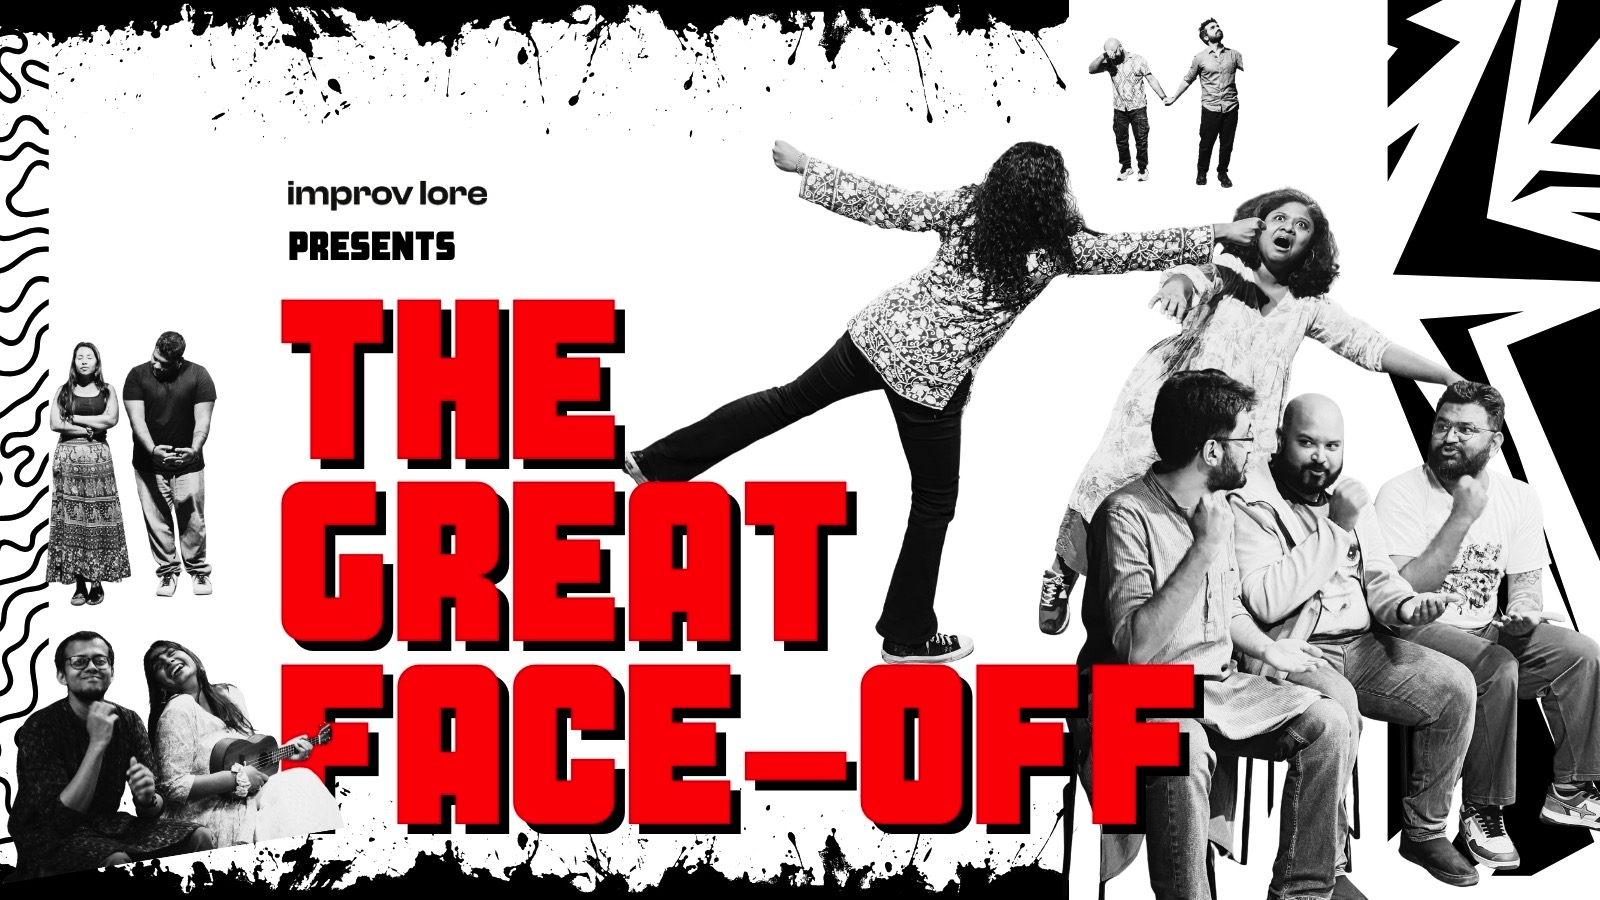
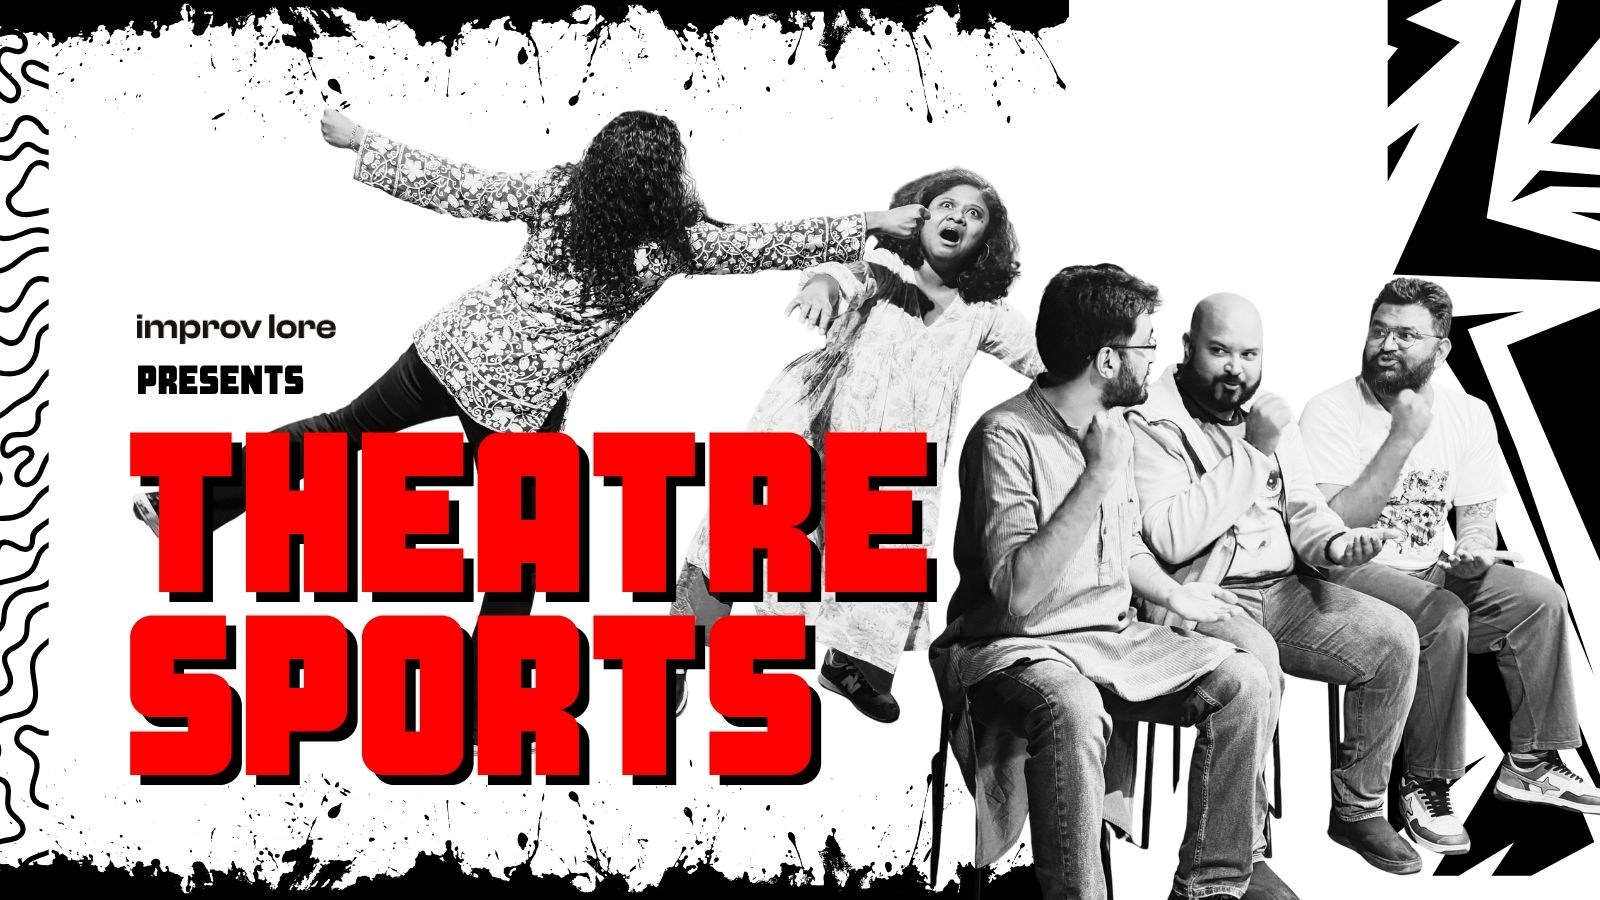
copy fix and afterdark addition

diff --git a/src/assets/css/marathon.css b/src/assets/css/marathon.css
@@ -511,8 +511,13 @@
 }
 
 .pill-latenight {
-  background: #6b21a8;
-  color: #fff;
+  background: #18072b;
+  color: #fdf4ff;
+  border: 1.5px solid #d946ef;
+  box-shadow: 0 0 10px rgba(217, 70, 239, 0.55), 2px 2px 0 var(--ink);
+  text-shadow: 0 0 6px rgba(217, 70, 239, 0.8);
+  font-weight: 800;
+  letter-spacing: 0.05em;
 }
 
 .marathon-format-title {
@@ -658,8 +663,28 @@
 }
 
 .marathon-schedule-card--latenight {
-  background: linear-gradient(135deg, #fbf7ff 0%, var(--surface) 100%);
-  border-color: var(--ink);
+  background: linear-gradient(135deg, #fdf8ff 0%, var(--surface) 100%);
+  border-color: #a855f7;
+  box-shadow: 6px 6px 0 var(--ink), 0 0 24px rgba(168, 85, 247, 0.2);
+  position: relative;
+}
+
+.marathon-schedule-card--latenight:hover {
+  box-shadow: 8px 8px 0 var(--ink), 0 0 32px rgba(168, 85, 247, 0.35);
+}
+
+.marathon-schedule-card--latenight .marathon-schedule-kicker {
+  color: #c026d3;
+  font-weight: 900;
+  letter-spacing: 0.09em;
+  text-shadow: 0 0 10px rgba(217, 70, 239, 0.45);
+}
+
+.neon-text-afterdark {
+  color: #9333ea;
+  text-shadow: 0 0 8px rgba(168, 85, 247, 0.7), 0 0 20px rgba(168, 85, 247, 0.4);
+  font-style: italic;
+  font-weight: 900;
 }
 
 /* Time Column */
@@ -754,6 +779,190 @@
 .marathon-schedule-card:hover .marathon-schedule-poster-img {
   transform: scale(1.02);
   box-shadow: 6px 6px 0 var(--ink);
+}
+
+/* After Dark Interactive Poster Swap (1-second delay transition) */
+.marathon-poster-after-dark-wrap {
+  position: relative;
+  width: 100%;
+}
+
+.marathon-after-dark-stage {
+  position: relative;
+  width: 100%;
+  aspect-ratio: 16 / 9;
+  border-radius: 12px;
+  overflow: hidden;
+  border: 2.5px solid var(--ink);
+  box-shadow: 4px 4px 0 var(--ink);
+  background: #0d0614;
+  transition: box-shadow 0.25s ease, transform 0.25s ease;
+}
+
+.marathon-schedule-card:hover .marathon-after-dark-stage {
+  transform: scale(1.02);
+  box-shadow: 6px 6px 0 var(--ink);
+}
+
+.marathon-after-dark-stage picture {
+  display: contents;
+}
+
+.marathon-after-dark-stage .marathon-schedule-poster-img {
+  position: absolute;
+  inset: 0;
+  width: 100%;
+  height: 100%;
+  object-fit: cover;
+  border: none;
+  border-radius: 0;
+  box-shadow: none;
+  transform: none !important;
+  transition: opacity 0.85s cubic-bezier(0.16, 1, 0.3, 1);
+}
+
+/* Day Poster (Default state) */
+.marathon-after-dark-stage .poster-day {
+  opacity: 1;
+  z-index: 1;
+}
+
+/* Night Poster (After Dark state) */
+.marathon-after-dark-stage .poster-night {
+  opacity: 0;
+  z-index: 2;
+}
+
+/* Active State: The Shift to After Dark */
+.marathon-poster-after-dark-wrap.is-after-dark .marathon-after-dark-stage .poster-day {
+  opacity: 0;
+}
+
+.marathon-poster-after-dark-wrap.is-after-dark .marathon-after-dark-stage .poster-night {
+  opacity: 1;
+}
+
+/* ==========================================================================
+   WHOLE WEBSITE INVERSION (AFTER DARK MODE)
+   ========================================================================== */
+
+body {
+  transition: background-color 0.85s cubic-bezier(0.16, 1, 0.3, 1);
+}
+
+body > *:not(.after-dark-sun-btn):not(#thumpn-ticket-modal) {
+  transition: filter 0.85s cubic-bezier(0.16, 1, 0.3, 1);
+}
+
+html.is-after-dark body {
+  background-color: #0d0614 !important;
+}
+
+/* Invert all page content layers except the floating sun button, ticket modal, and page frost.
+   Applying the filter here (and NOT on html or body) ensures the viewport remains
+   the containing block for position: fixed, so the sun button floats reliably
+   in the corner of the screen without getting trapped at the bottom of the document. */
+html.is-after-dark body > *:not(.after-dark-sun-btn):not(#thumpn-ticket-modal):not(.page-frost) {
+  filter: invert(1) hue-rotate(180deg);
+}
+
+/* Maintain dark obsidian frosted pane in After Dark mode */
+html.is-after-dark .page-frost {
+  filter: none !important;
+  background: rgba(13, 6, 20, 0.5) !important;
+}
+
+/* Counter-invert imagery, posters, video and iframes so artwork retains natural colors */
+html.is-after-dark main img,
+html.is-after-dark main video,
+html.is-after-dark main iframe {
+  filter: invert(1) hue-rotate(180deg) !important;
+}
+
+/* Let the black header logo naturally invert into crisp white on dark header */
+html.is-after-dark .hero-logo {
+  filter: none !important;
+}
+
+/* Counter-invert any nested modals or overlays if triggered inside main */
+html.is-after-dark .thumpn-modal-backdrop {
+  filter: none;
+}
+
+/* Floating Sun Overlay Return Button (Where scroll-to-top sits, appears only in After Dark mode) */
+.after-dark-sun-btn {
+  position: fixed !important;
+  bottom: 2rem !important;
+  right: 2rem !important;
+  z-index: 2147483647 !important;
+  width: 52px;
+  height: 52px;
+  border-radius: 50%;
+  display: flex;
+  align-items: center;
+  justify-content: center;
+  background: #15072b;
+  border: 2.5px solid #ffe642;
+  box-shadow: 0 4px 20px rgba(255, 230, 66, 0.5), 3px 3px 0 #000000;
+  cursor: pointer;
+  opacity: 0;
+  pointer-events: none;
+  transform: translateY(18px) scale(0.75);
+  transition: opacity 0.45s cubic-bezier(0.16, 1, 0.3, 1),
+              transform 0.45s cubic-bezier(0.16, 1, 0.3, 1),
+              box-shadow 0.25s ease,
+              background 0.25s ease;
+  user-select: none;
+}
+
+.after-dark-sun-btn.is-visible {
+  opacity: 1;
+  pointer-events: auto;
+  transform: translateY(0) scale(1);
+}
+
+.after-dark-sun-btn:hover {
+  transform: translateY(-3px) scale(1.12);
+  background: #240c42;
+  box-shadow: 0 6px 28px rgba(255, 230, 66, 0.75), 4px 4px 0 #000000;
+}
+
+.after-dark-sun-btn:active {
+  transform: translateY(1px) scale(0.98);
+  box-shadow: 2px 2px 0 #000000;
+}
+
+.after-dark-sun-btn .sun-icon {
+  font-size: 1.55rem;
+  line-height: 1;
+  filter: drop-shadow(0 0 6px rgba(255, 230, 66, 0.6));
+  transition: transform 0.3s ease;
+}
+
+.after-dark-sun-btn:hover .sun-icon {
+  transform: rotate(20deg) scale(1.08);
+}
+
+@media (max-width: 640px) {
+  .after-dark-sun-btn {
+    bottom: 1.25rem;
+    right: 1.25rem;
+    width: 48px;
+    height: 48px;
+  }
+
+  .after-dark-sun-btn .sun-icon {
+    font-size: 1.4rem;
+  }
+}
+
+@media (prefers-reduced-motion: reduce) {
+  .marathon-after-dark-stage .marathon-schedule-poster-img {
+    transition: none !important;
+  }
+  .after-dark-flash {
+    display: none !important;
+  }
 }
 
 /* Either / Or Jam specific poster stack */

diff --git a/src/_data/marathon.js b/src/_data/marathon.js
@@ -136,7 +136,7 @@ const upcoming = {
   ticketUrl: "https://underline.center",
   skipThumpnEmbed: false, // Set to true if embed is having an issue and we want to link to the event page directly
   intro:
-    "Bangalore spends too much time staring at screens and rushing through deadlines. This Gandhi Jayanti, we're doing the opposite: twelve straight hours of unscripted comedy, storytelling, live music, and late-night madness in a cozy community space in Indiranagar. Seven shows, two community jams, and zero scripts. Pull up a chair, support your local theatre, and come play.",
+    "Are you tired of staring at screens and rushing to meet deadlines? This Gandhi Jayanti, we're making the antidote: twelve straight hours of unscripted comedy, storytelling, live music, and late-night madness in a cozy community space in Indiranagar. Seven shows, two community jams, and zero scripts. Pull up a chair, support your local theatre, and come play.",
   scheduleNote:
     "Doors open at 1:30 PM. Seven shows and two jams from 2:00 in the afternoon until 2:00 in the morning.",
   schedule: [
@@ -223,7 +223,7 @@ const upcoming = {
           desc: "Warm up, step onto the floorboards, and play easy theatre games with friendly strangers."
         }
       ],
-      blurb: "Two friendly jams happening at the same time in separate rooms. Pick the room that sounds fun, or grab a chair and cheer from the sidelines."
+      blurb: "Two friendly jams happening at the same time in separate rooms. Pick the room that sounds fun and jump right in—no experience needed."
     },
     {
       thumpnEventId: "evt-E8WF7R",
@@ -236,7 +236,7 @@ const upcoming = {
       formatClass: "show",
       kicker: "Prime Time Musical",
       poster: "/assets/posters/musical-improv-show.jpg",
-      blurb: "A brand new Broadway-style musical, built live with a pianist from whatever prompt you shout out. Catchy melodies, zero scripts."
+      blurb: "Unscripted melodies, songs, and scenes created live with a pianist from your prompts and suggestions right on the spot. Zero scripts, all made up live."
     },
     {
       thumpnEventId: "evt-PUDQUN",
@@ -261,8 +261,9 @@ const upcoming = {
       slug: "the-silliest-show-tonight",
       format: "Late Night Finale",
       formatClass: "latenight",
-      kicker: "The 2 AM Grand Finale",
+      kicker: "The 12:30 AM Finale",
       poster: "/assets/posters/the-silliest-show-tonight.jpg",
+      posterAfterDark: "/assets/posters/silliest-show-tonight-after-dark.jpg",
       blurb: "What happens to improvisors after ten hours of adrenaline. Callbacks to the whole day, absurd characters, and not our regular family friendly show."
     }
   ],
@@ -281,7 +282,7 @@ const upcoming = {
         "Come and go freely between your chosen sessions",
         "Better value than single session tickets",
         "Directly supports Underline Center & independent local theatre"
-          ],
+      ],
       razorpay: true,
     },
     {
@@ -302,7 +303,7 @@ const upcoming = {
     },
     {
       q: "Can I leave and come back later?",
-      a: "Yes, that's why we made it 12 hours. Catch an afternoon show, head out to Indiranagar for lunch or drinks, and pop back in for the prime-time musical and midnight madness."
+      a: "Yes, that's why we made it 12 hours. Catch an afternoon show, head out to the terrace for food and drink with our F&B partners, and pop back in for the prime-time musical and midnight madness."
     },
     {
       q: "Never watched improv before. Will I follow along?",
